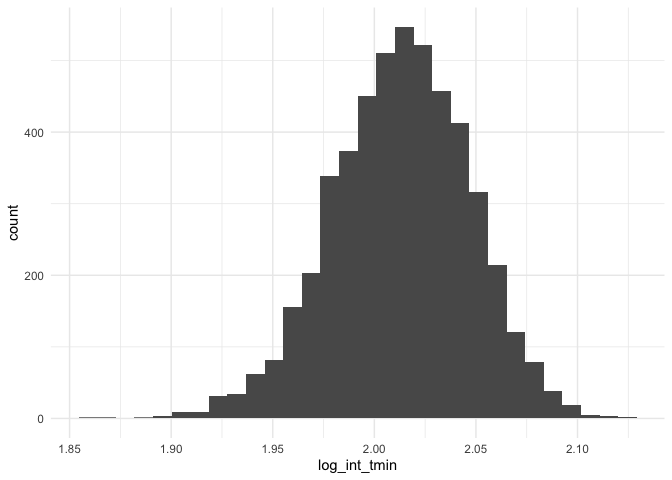
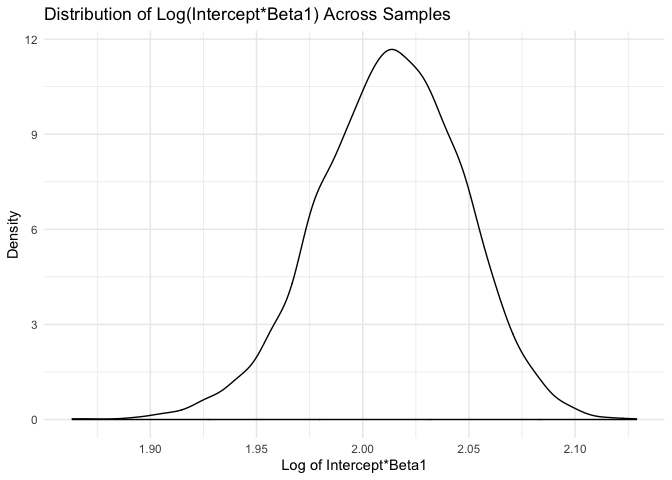
final commit???????

diff --git a/p8105_hw6_ps3070.md b/p8105_hw6_ps3070.md
@@ -7,6 +7,7 @@ library(readxl)
 library(knitr)
 library(modelr)
 library(p8105.datasets)
+library(MASS)
 
 knitr::opts_chunk$set(echo = TRUE, warning = FALSE, out.width = "90%")
 
@@ -26,10 +27,23 @@ theme_set(theme_minimal() + theme(legend.position = "bottom"))
 ``` r
 birthweight = read_csv(file = "./data/birthweight.csv") %>%
   janitor::clean_names() %>% 
-  mutate(babysex = recode(babysex, "1" = "male", "2" = "female"),
-         frace = recode(frace, "1" = "White", "2" = "Black", "3" = "Asian", "4" = "Puerto Rican", "8" = "Other", "9" = "Unknown"),
-         mrace = recode(mrace, "1" = "White", "2" = "Black", "3" = "Asian", "4" = "Puerto Rican", "8" = "Other", "9" = "Unknown"),
-         malform = recode(malform, "0" = "absent", "1" = "present"),
+  mutate(babysex = recode(babysex, "1" = "male",
+                          "2" = "female"),
+         frace = recode(frace, "1" = "White",
+                        "2" = "Black",
+                        "3" = "Asian",
+                        "4" = "Puerto Rican",
+                        "8" = "Other",
+                        "9" = "Unknown"),
+         mrace = recode(mrace,
+                        "1" = "White",
+                        "2" = "Black",
+                        "3" = "Asian",
+                        "4" = "Puerto Rican",
+                        "8" = "Other",
+                        "9" = "Unknown"),
+         malform = recode(malform, "0" = "absent",
+                          "1" = "present"),
          babysex = as.factor(babysex),
          frace = as.factor(frace),
          mrace = as.factor(mrace),
@@ -39,35 +53,172 @@ birthweight = read_csv(file = "./data/birthweight.csv") %>%
 
 ``` r
 birthweight %>% 
-  map_df(~sum(is.na(.)))
+  map_df(~sum(is.na(.))) %>% 
+  knitr::kable(format = "html", caption = "Missing Values")
 ```
 
-    ## # A tibble: 1 x 20
-    ##   babysex bhead blength   bwt delwt fincome frace gaweeks malform menarche
-    ##     <int> <int>   <int> <int> <int>   <int> <int>   <int>   <int>    <int>
-    ## 1       0     0       0     0     0       0     0       0       0        0
-    ## # … with 10 more variables: mheight <int>, momage <int>, mrace <int>,
-    ## #   parity <int>, pnumlbw <int>, pnumsga <int>, ppbmi <int>, ppwt <int>,
-    ## #   smoken <int>, wtgain <int>
-
+<table>
+<caption>
+Missing Values
+</caption>
+<thead>
+<tr>
+<th style="text-align:right;">
+babysex
+</th>
+<th style="text-align:right;">
+bhead
+</th>
+<th style="text-align:right;">
+blength
+</th>
+<th style="text-align:right;">
+bwt
+</th>
+<th style="text-align:right;">
+delwt
+</th>
+<th style="text-align:right;">
+fincome
+</th>
+<th style="text-align:right;">
+frace
+</th>
+<th style="text-align:right;">
+gaweeks
+</th>
+<th style="text-align:right;">
+malform
+</th>
+<th style="text-align:right;">
+menarche
+</th>
+<th style="text-align:right;">
+mheight
+</th>
+<th style="text-align:right;">
+momage
+</th>
+<th style="text-align:right;">
+mrace
+</th>
+<th style="text-align:right;">
+parity
+</th>
+<th style="text-align:right;">
+pnumlbw
+</th>
+<th style="text-align:right;">
+pnumsga
+</th>
+<th style="text-align:right;">
+ppbmi
+</th>
+<th style="text-align:right;">
+ppwt
+</th>
+<th style="text-align:right;">
+smoken
+</th>
+<th style="text-align:right;">
+wtgain
+</th>
+</tr>
+</thead>
+<tbody>
+<tr>
+<td style="text-align:right;">
+0
+</td>
+<td style="text-align:right;">
+0
+</td>
+<td style="text-align:right;">
+0
+</td>
+<td style="text-align:right;">
+0
+</td>
+<td style="text-align:right;">
+0
+</td>
+<td style="text-align:right;">
+0
+</td>
+<td style="text-align:right;">
+0
+</td>
+<td style="text-align:right;">
+0
+</td>
+<td style="text-align:right;">
+0
+</td>
+<td style="text-align:right;">
+0
+</td>
+<td style="text-align:right;">
+0
+</td>
+<td style="text-align:right;">
+0
+</td>
+<td style="text-align:right;">
+0
+</td>
+<td style="text-align:right;">
+0
+</td>
+<td style="text-align:right;">
+0
+</td>
+<td style="text-align:right;">
+0
+</td>
+<td style="text-align:right;">
+0
+</td>
+<td style="text-align:right;">
+0
+</td>
+<td style="text-align:right;">
+0
+</td>
+<td style="text-align:right;">
+0
+</td>
+</tr>
+</tbody>
+</table>
 There is no missing data in the dataset.
 
 ### Regression model
 
 The outcome is continuous, so I will use a linear regression model.
 
-``` r
-bwt_base = lm(bwt ~ babysex + gaweeks + blength + mheight + smoken, data = birthweight) #linear model
+Using stepwise selection, I tested what variables are associated with `bwt` below:
 
-bwt_model = modelr::add_residuals(birthweight, bwt_base) #residuals
-bwt_model = modelr::add_predictions(bwt_model, bwt_base)
+``` r
+set.seed(123)
+bwt1 = lm(bwt ~., data = birthweight)
+bwt_aic = stepAIC(bwt1, direction = "both", trace = FALSE) 
+```
+
+Plotting residuals below:
+
+``` r
+bwt_model = modelr::add_residuals(birthweight, bwt_aic) #residuals
+bwt_model = modelr::add_predictions(bwt_model, bwt_aic)
 
 bwt_model %>%
   ggplot(aes(x = pred, y = resid, color = resid)) +
-  geom_point(alpha = 0.5)
+  geom_point(alpha = 0.5) +
+  labs(x = "Predictions",
+       y = "Residuals",
+       title = "Predictions vs. Residuals")
 ```
 
-<img src="p8105_hw6_ps3070_files/figure-markdown_github/linear model-1.png" width="90%" />
+<img src="p8105_hw6_ps3070_files/figure-markdown_github/residual plots-1.png" width="90%" />
 
 ### Comparing model to two others
 
@@ -91,16 +242,16 @@ Next, I produced RMSE density plots for each:
 cv = crossv_mc(birthweight, 100) 
 
 cv = cv %>% 
-  mutate(base  = map(train, ~lm(bwt ~ babysex + gaweeks + blength + mheight + smoken, data = .x)),
+  mutate(aic = map(train, ~lm(bwt ~ babysex + bhead + blength + delwt + fincome + gaweeks + mheight + mrace + parity + ppwt + smoken, data = .x)),
          model1  = map(train, ~lm(bwt ~ blength + gaweeks, data = .x)),
          model2  = map(train, ~lm(bwt ~ bhead + blength + babysex + bhead*blength + bhead*babysex + blength*babysex + blength*blength*babysex, data = .x))
          ) %>% 
-  mutate(rmse_base = map2_dbl(base, test, ~rmse(model = .x, data = .y)),
+  mutate(rmse_aic = map2_dbl(aic, test, ~rmse(model = .x, data = .y)),
          rmse_1 = map2_dbl(model1, test, ~rmse(model = .x, data = .y)),
          rmse_2 = map2_dbl(model2, test, ~rmse(model = .x, data = .y)))
 
 cv %>% 
-  select(starts_with("rmse")) %>% 
+  dplyr::select(starts_with("rmse")) %>% 
   pivot_longer(
     everything(),
     names_to = "model", 
@@ -108,12 +259,19 @@ cv %>%
     names_prefix = "rmse_") %>% 
   mutate(model = fct_inorder(model)) %>% 
   ggplot(aes(x = model, y = rmse, color = model)) + 
-  geom_violin()
+  geom_violin() +
+  labs(x = "Model",
+       y = "Mean Squared Error Distribution",
+       title = "RMSE of Models")
 ```
 
 <img src="p8105_hw6_ps3070_files/figure-markdown_github/density-1.png" width="90%" />
 
-Based on the violin plot above, model 2 appears to be the best because its mean squared error (MSE) is lowest among the models. Model 2 is the model containing interaction terms.
+Based on the violin plot above, the model provided by stepwise selection (i.e. my "AIC" model) appears to be the best because its mean squared error (MSE) is lowest among the models.
+
+Selected model:
+
+y = *β*<sub>0</sub> + *β*<sub>1</sub> babysex + *β*<sub>2</sub> bhead + *β*<sub>3</sub> blength + *β*<sub>4</sub> delwt + *β*<sub>5</sub> fincome + *β*<sub>6</sub> gaweeks + *β*<sub>7</sub> meight + *β*<sub>8</sub> momage + *β*<sub>9</sub> mrace + *β*<sub>10</sub> parity + *β*<sub>11</sub> ppwt + *β*<sub>12</sub> smoken
 
 ### Problem 2
 
@@ -128,14 +286,8 @@ weather_df =
     name = recode(id, USW00094728 = "CentralPark_NY"),
     tmin = tmin / 10,
     tmax = tmax / 10) %>%
-  select(name, id, everything())
+  dplyr::select(name, id, everything())
 ```
-
-    ## file path:          /Users/priyankasrinivasan/Library/Caches/rnoaa/ghcnd/USW00094728.dly
-
-    ## file last updated:  2019-09-26 10:25:42
-
-    ## file min/max dates: 1869-01-01 / 2019-09-30
 
 Simple linear regression with tmax as response, tmin as predictor.
 
@@ -162,7 +314,7 @@ result_df = boot_df %>%
          results = map(model, broom::tidy)
   ) %>% 
   unnest(results) %>%
-  select(number, model:estimate) %>% 
+  dplyr::select(number, model:estimate) %>% 
   pivot_wider(
     names_from = term,
     values_from = estimate) %>%
@@ -174,7 +326,7 @@ r2_df = result_df %>%
   mutate(model_fit = map(model, broom::glance)) %>%
   unnest(model_fit) %>%
   janitor::clean_names() %>% 
-  select(number:r_squared)
+  dplyr::select(number:r_squared)
 ```
 
 Plots:
@@ -182,7 +334,12 @@ Plots:
 ``` r
 result_df %>% 
   ggplot(aes(x = log_int_tmin)) +
-  geom_histogram()
+  geom_density() + 
+  labs(
+    x = "Log of Intercept*Beta1",
+    y = "Density",
+    title = "Distribution of Log(Intercept*Beta1) Across Samples"
+  )
 ```
 
 <img src="p8105_hw6_ps3070_files/figure-markdown_github/plots-1.png" width="90%" />
@@ -190,17 +347,22 @@ result_df %>%
 ``` r
 r2_df %>%
   ggplot(aes(x = r_squared)) +
-  geom_histogram()
+  geom_density() +
+  labs(
+    x = "R-Squared",
+    y = "Density",
+    title = "Distribution of R-Squared Across Samples"
+  )
 ```
 
 <img src="p8105_hw6_ps3070_files/figure-markdown_github/plots-2.png" width="90%" />
 
-Distributions normal
+The distribution of log of Intercept x Beta 1 Hat and *r*<sup>2</sup> look close to a normal distribution. The distribution of log of Intercept x Beta 1 Hat looks fairly normal but very slightly left-skewed. The *r*<sup>2</sup> distribution is slightly more left skewed. The difference may be because of a log transformation in the Intercept x Beta 1 Hat plot.
 
-Median log: 2.01
+The 95% confidence interval for the log data is (1.94, 2.08). The 95% confidence interval for the *r*<sup>2</sup> is (1.94, 2.08). Since the null value of zero is not within either CI, we are 95% confident that the true values for both lie in these ranges based on this sample.
 
-Median r2: 0.91
+Other information:
 
-log CI: (1.94, 2.08)
+Log Median: 2.01
 
-log r2: (0.88, 0.93)
+*r*<sup>2</sup> Median: 0.91
